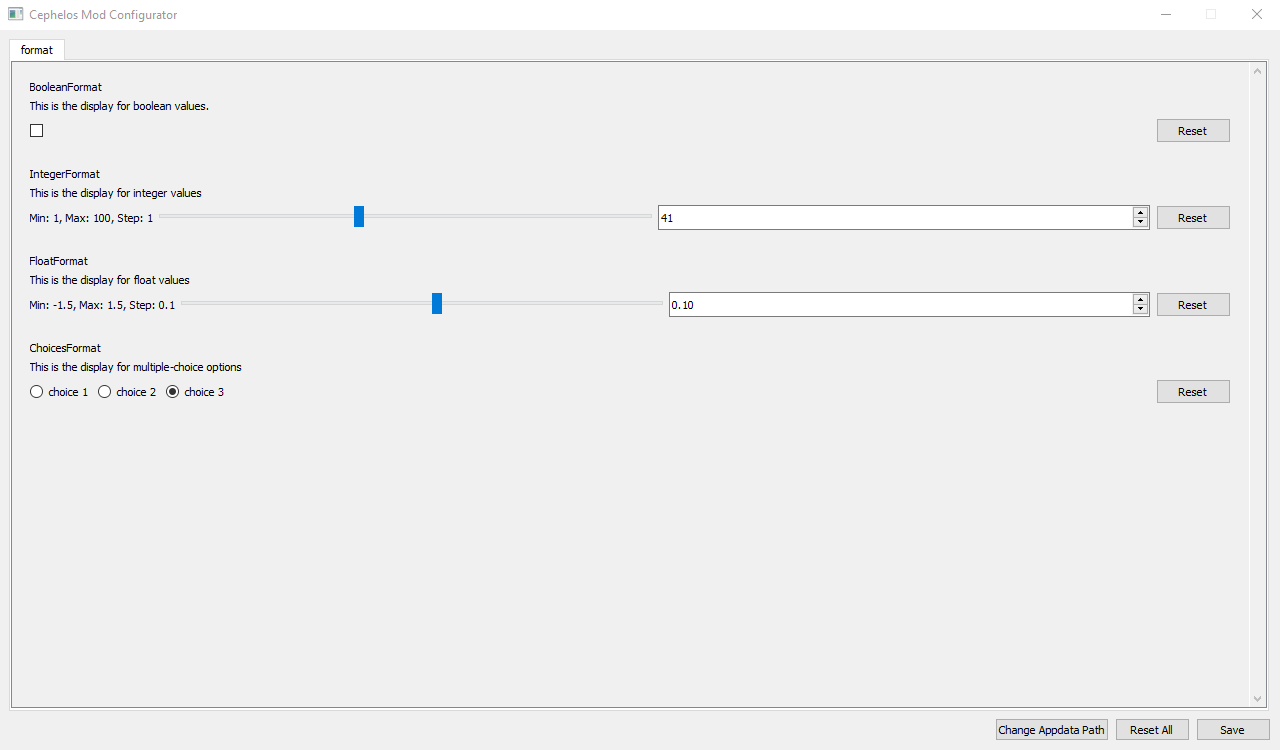
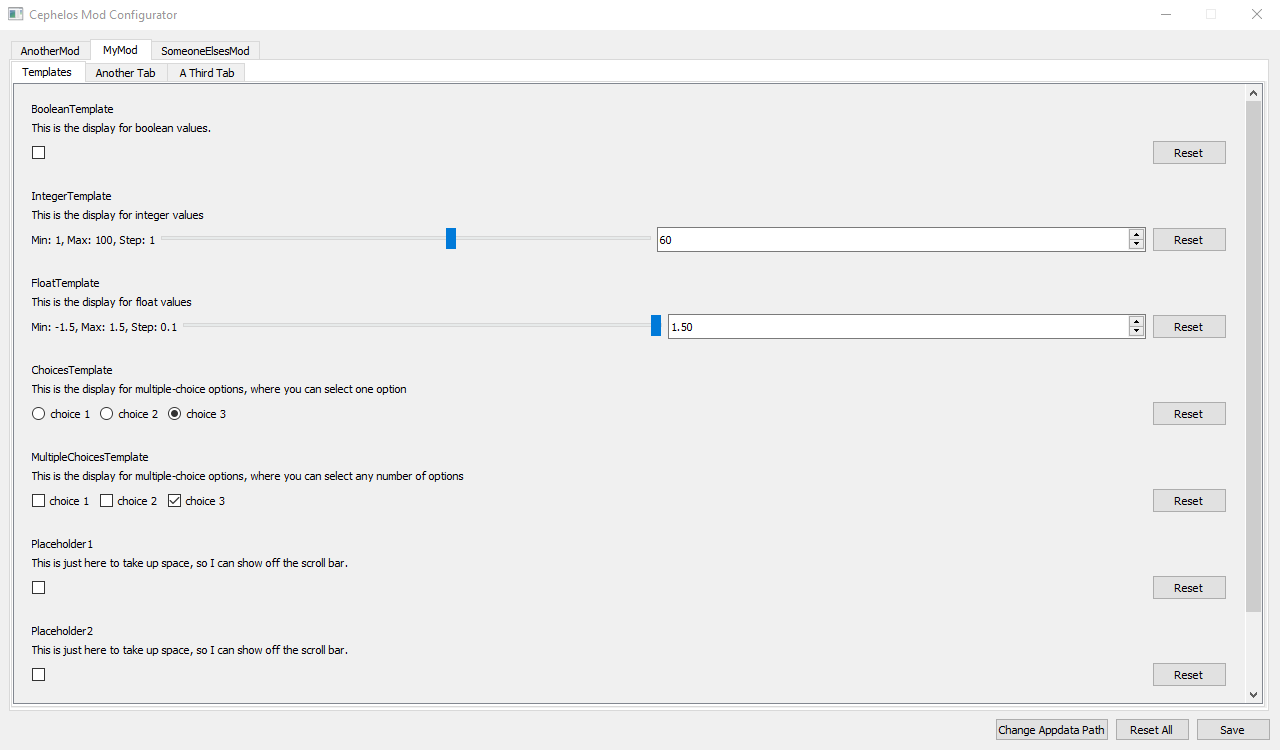
Updated sample image and Readme

diff --git a/README.md b/README.md
@@ -5,52 +5,93 @@ The executable *should* find your config files automatically if its in the norma
 ***If a mod author isn't using this for their mod's config stuff (and they probably aren't), don't bother them or me about it. This tool is primarily for my own use, it's only here in case anyone else wanted to use it.***
 
 The JSON must fit a specific format for it to work (the text below is not valid JSON as it is commented; this same template without the comments is located in format.json)
-If you split your mod config into multiple files, each one will show up as a seperate tab.
+
+Each json will generate tabs named after each object at the highest level. That object's children will populate the tab.
+
+Each mod folder will generate its own tab, which contains all of the tabs generated for that json. **Multiple json files within the same mod folder will break things.**
 ```javascript
-{
-    "BooleanFormat": {  // Template for boolean values, appears as a checkbox. This will be the name of the option in the GUI
-        "description": "This is the display for boolean values.",  // Text that appears below the option to describe it
-        "value": false,  // current value of the variable
-        "default": false  // default value of the variable, used when hitting the reset button
-    },
-    "IntegerFormat": {  // Template for integer values, appears as an input box. This will be the name of the option in the GUI
-        "description": "This is the display for integer values",  // Text that appears below the option to describe it
-        "value": 41,  // current value of the variable
-        "default": 60,  // default value of the variable, used when hitting the reset button
-        "range": [  // ranges for this variable. "None" can be entered for min and max to leave the value unbounded. If set to "None", the step will be 1.
-            1,  // minimum value
-            100,  // maximum value
-            1  // step of the value
-        ],
-        "extras": {  // optional values that can be added
-            "slider": true  // adds a slider next to the input box; will be ignored if any value in "range" isn't an int
+{   "Templates" : {
+        "BooleanTemplate": {  // Template for boolean values, appears as a checkbox. This will be the name of the option in the GUI
+            "description": "This is the display for boolean values.",  // Text that appears below the option to describe it
+            "value": false,  // current value of the variable
+            "default": false  // default value of the variable, used when hitting the reset button
+        },
+        "IntegerTemplate": {  // Template for integer values, appears as an input box. This will be the name of the option in the GUI
+            "description": "This is the display for integer values",  // Text that appears below the option to describe it
+            "value": 41,  // current value of the variable
+            "default": 60,  // default value of the variable, used when hitting the reset button
+            "range": [  // ranges for this variable. "None" can be entered for min and max to leave the value unbounded. If set to "None", the step will be 1.
+                1,  // minimum value
+                100,  // maximum value
+                1  // step of the value
+            ],
+            "extras": {  // optional values that can be added
+                "slider": true  // adds a slider next to the input box; will be ignored if any value in "range" isn't an int
+            }
+        },
+        "FloatTemplate": {  // Template for float values, appears as an input box. This will be the name of the option in the GUI
+            "description": "This is the display for float values",  // Text that appears below the option to describe it
+            "value": 0.1,  // current value of the variable
+            "default": 70.5,  // default value of the variable, used when hitting the reset button
+            "range": [  // ranges for this variable. "None" can be entered for min and max to leave the value unbounded. If set to "None", the step will be 1.0  
+                -1.5,  // minimum value
+                1.5,  // maximum value
+                0.1  // step of the value
+            ],
+            "extras": {  // optional values that can be added
+                "precision": 2,  // number of digits after the decimal point to include. If not included, will default to the precision of tthe step
+                "slider": true  // adds a slider next to the input box; will be ignored if any value in "range" isn't a float
+            }
+        },
+        "ChoicesTemplate": {  // Template for multiple-choice values, appears as radio buttons. This will be the name of the option in the GUI
+            "description": "This is the display for multiple-choice options",  // Text that appears below the option to describe it
+            "value": "choice 3",  // current value of the variable
+            "default": "choice 3"  // default value of the variable, used when hitting the reset button
+            "choices": [  // choices that will each appear as a radio button
+                "choice 1",
+                "choice 2",
+                "choice 3"
+            ]
+        },
+        "MultipleChoicesTemplate": {    // Template for multiple-choice values (where you can select multiple), appears as checkboxes. This will be the name of the option in the GUI
+            "description": "This is the display for multiple-choice options, where you can select any number of options",   // Text that appears below the option to describe it
+            "value": [  // current values of the variable. Can be in any order
+                "choice 3",
+                "choice 2",
+            ],
+            "default": [  // default values of the variable, used when hitting the reset button. Can be in any order
+                "choice 3",
+                "choice 1",
+            ],
+            "choices": [  // choices that will each appear as a checkbox
+                "choice 1",
+                "choice 2",
+                "choice 3"
+            ]
+        },
+        "Placeholder1": {   // If you have more options than can fit on the normal screen size, a scroll bar will appear, allowing you to see everything
+            "description": "This is just here to take up space, so I can show off the scroll bar.",
+            "value": false,
+            "default": false
+        },
+        "Placeholder2": {
+            "description": "This is just here to take up space, so I can show off the scroll bar.",
+            "value": false,
+            "default": false
+        },
+        "Placeholder3": {
+            "description": "This is just here to take up space, so I can show off the scroll bar.",
+            "value": false,
+            "default": false
         }
+    }
+    "Another Tab": {    // If there's multiple objects at the highest level of the json, it will form its own tab, with its own children objects displayed on it
+
     },
-    "FloatFormat": {  // Template for float values, appears as an input box. This will be the name of the option in the GUI
-        "description": "This is the display for float values",  // Text that appears below the option to describe it
-        "value": 0.1,  // current value of the variable
-        "default": 70.5,  // default value of the variable, used when hitting the reset button
-        "range": [  // ranges for this variable. "None" can be entered for min and max to leave the value unbounded. If set to "None", the step will be 1.0  
-            -1.5,  // minimum value
-            1.5,  // maximum value
-            0.1  // step of the value
-        ],
-        "extras": {  // optional values that can be added
-            "precision": 2,  // number of digits after the decimal point to include. If not included, will default to the precision of tthe step
-            "slider": true  // adds a slider next to the input box; will be ignored if any value in "range" isn't a float
-        }
+    "A Third Tab": {
+
     },
-    "ChoicesFormat": {  // Template for multiple-choice values, appears as radio buttons. This will be the name of the option in the GUI
-        "description": "This is the display for multiple-choice options",  // Text that appears below the option to describe it
-        "value": "choice 3",  // current value of the variable
-        "choices": [  // choices that will each appear as a radio buttons
-            "choice 1",
-            "choice 2",
-            "choice 3"
-        ],
-        "default": "choice 3"  // default value of the variable, used when hitting the reset button
-    },
-    "__CephelosModConfig": true  // if this line isn't present, the program will assume the json isn't the right format and ignore it
+    "__CephelosModConfig": 2  // if this line isn't present, the program will assume the json isn't the right format and ignore it. The number isn't used in the GUI, but it can be used for versioning
 }
 ```
 
